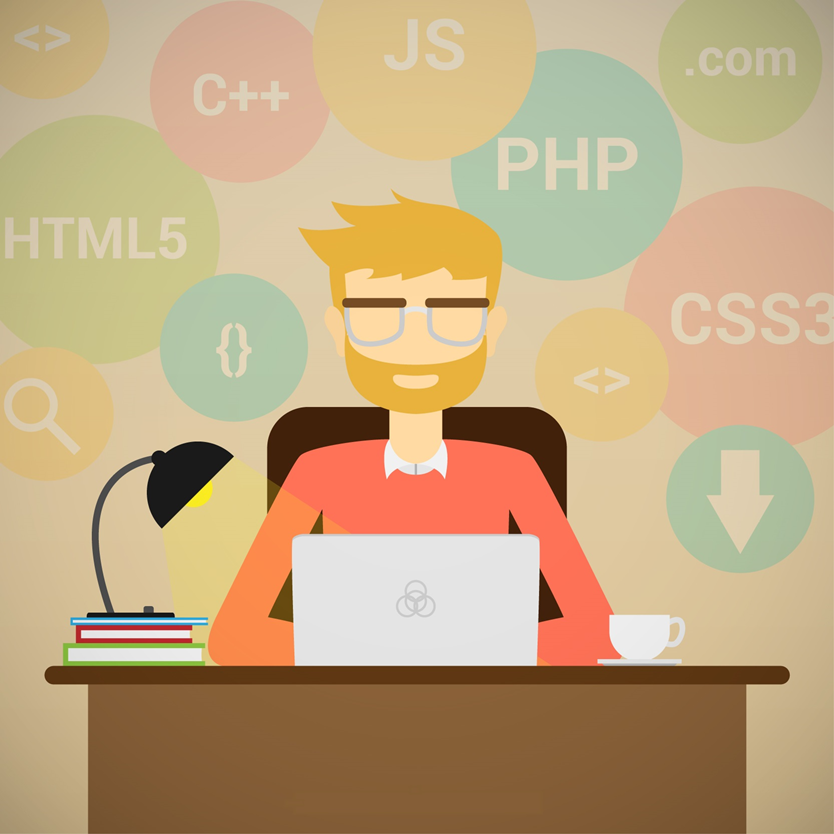
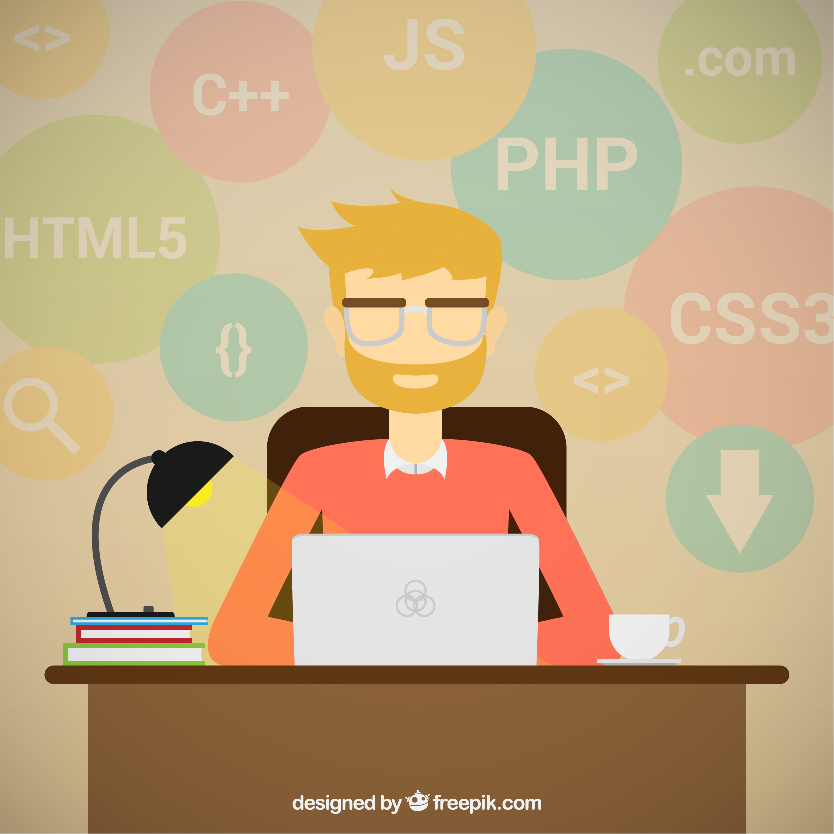
commit final

diff --git a/index.html b/index.html
@@ -50,7 +50,7 @@
       </h4>
       <div class="row">
         <div class="card-panel valign-wrapper  col m4 l12">
-          <p class="valign light">O <b>Projeto Matrix</b> traz uma abordagem imersiva e inovadora da qual, aliadas ao conceitos de mentoring e learn
+          <p class="valign light" align="justify">O <b>Projeto Matrix</b> traz uma abordagem imersiva e inovadora da qual, aliadas ao conceitos de mentoring e learn
             by doing, possibilitará a um grupo de estudantes de Tecnologia da Informação a vivenciarem diversas situações
             do cotidiano do setor de desenvolvimento de software. Os participantes serão, a todo momento, estimulados ao
             pensamento empreendedor e desafiados a buscarem soluções criativas e inovadoras para problemas reais. O projeto
@@ -68,11 +68,12 @@
         <div class="col s12 m4">
           <div class="card">
             <div class="card-image">
-              <img class="teste" src="img/empreendedor.jpg">
+              <img class="teste" src="img/empreendedor.png">
+              <!--<a href='http://br.freepik.com/vetores-gratis/homem-de-negocios-com-uma-lampada-na-cabeca_1076202.htm'>Designed by Freepik</a>-->
             </div>
             <div class="card-content">
               <p><b>Pensamento Empreendedor</b></p>
-              <p>A maioria das pessoas hesitam em dar o primeiro passo, com medo de fracassar. O que você precisa saber é que
+              <p align="justify">A maioria das pessoas hesitam em dar o primeiro passo, com medo de fracassar. O que você precisa saber é que
                 todo mundo tem medo de falhar, o sucesso só vem pra quem arrisca. Já dizia Albert Einstein: "uma pessoa que
                 nunca cometeu erros, nunca tentou algo novo."</p>
               <br>
@@ -84,10 +85,11 @@
           <div class="card">
             <div class="card-image">
               <img src="img/learnbydoing.png">
+              <!--<a href='http://br.freepik.com/vetores-gratis/programador-e-processo-de-codificacao_765893.htm'>Designed by Freepik</a>-->
             </div>
             <div class="card-content">
               <p><b>Learn By Doing</b></p>
-              <p>Vem evidenciar que grande parte de seu conhecimento e habilidades, você desenvolve sozinho. Como a própria
+              <p align="justify">Vem evidenciar que grande parte de seu conhecimento e habilidades, você desenvolve sozinho. Como a própria
                 tradução diz: Aprender fazendo. Podemos afirmar que é o processo pelo qual através do aprendizado construímos
                 nossos valores, conhecimentos e habilidades a partir de experiências.</p>
             </div>
@@ -97,11 +99,12 @@
         <div class="col s12 m4">
           <div class="card">
             <div class="card-image">
-              <img src="img/teach.png">
+              <img src="img/mentoring.png">
+              <!--<a href='http://br.freepik.com/vetores-gratis/professor-com-um-design-negro_1023438.htm'>Designed by Freepik</a>-->
             </div>
             <div class="card-content">
               <p><b>Mentoring</b></p>
-              <p>É uma espécie de tutoria onde um profissional mais experiente orienta e compartilha com profissionais mais
+              <p align="justify">É uma espécie de tutoria onde um profissional mais experiente orienta e compartilha com profissionais mais
                 jovens, que estão iniciando no mercado de trabalho, experiências e conhecimentos no sentido de dar-lhes orientações
                 e conselhos para o desenvolvimento de suas carreiras.</p>
               <br>
@@ -134,7 +137,7 @@
             <div class="card-reveal">
               <span id="revealNome" class="card-title grey-text text-darken-4">Jonatan Machado<i class="material-icons right">close</i></span>
               <div class="card-action">
-                <p>Natural do Rio de janeiro, 19 anos, Estuda na UniCarioca e cursa Ciência da Computação</p>
+                <p align="center">Desenvolvedor Web</p>
                 <div id="icones">
                   <a href="https://www.linkedin.com/in/jonatan2m/" target="_blank" class="csmb csmb-linkedin"></a>
                   <a href="https://github.com/jonatan2m" target="_blank" class="csmb csmb-github"></a>
@@ -155,7 +158,7 @@
             <div class="card-reveal">
               <span id="revealNome" class="card-title grey-text text-darken-4">Hugo Silva<i class="material-icons right">close</i></span>
               <div class="card-action">
-                <p>Natural do Rio de janeiro, 19 anos, Estuda na UniCarioca e cursa Ciência da Computação</p>
+                <p align="center">Desenvolvedor Mobile e Web</p>
                 <div id="icones">
                   <a href="https://www.linkedin.com/in/hugobex/" target="_blank" class="csmb csmb-linkedin"></a>
                   <a href="https://github.com/HugoBex" target="_blank" class="csmb csmb-github"></a>
@@ -176,10 +179,10 @@
             <div class="card-reveal">
               <span id="revealNome" class="card-title grey-text text-darken-4">Raphael Machado<i class="material-icons right">close</i></span>
               <div class="card-action">
-                <p>Natural do Rio de janeiro, 19 anos, Estuda na UniCarioca e cursa Ciência da Computação</p>
+                <p align="center">Monitor de computação</p>
                 <div id="icones">
                   <a href="https://www.linkedin.com/in/raphacm/" target="_blank" class="csmb csmb-linkedin"></a>
-                  <a href="http://github.com/<raphacm></raphacm>" target="_blank" class="csmb csmb-github"></a>
+                  <a href="https://github.com/raphacm" target="_blank" class="csmb csmb-github"></a>
                 </div>
               </div>
             </div>
@@ -211,7 +214,9 @@
             <div class="card-reveal">
               <span id="revealNomeA" class="card-title grey-text text-darken-4">Álvaro Nascimento<i class="material-icons right">close</i></span>
               <div class="card-action">
-                <p>Natural do Rio de janeiro, 19 anos, Estuda na UniCarioca e cursa Ciência da Computação</p>
+                  <p align="center">Data de Nascimento:<br>02/03/1987</p>
+                  <p align="center">Curso:<br>Ciência da Computação</p>
+                  <p align="center">Período:<br>3º</p>
                 <div id="icones">
                   <a href="https://www.linkedin.com/in/%C3%A1lvaro-nascimento-748190114/" target="_blank" class="csmb csmb-linkedin"></a>
                   <a href="https://github.com/alvaroinfo21/" target="_blank" class="csmb csmb-github"></a>
@@ -232,7 +237,9 @@
             <div class="card-reveal">
               <span id="revealNomeF" class="card-title grey-text text-darken-4">Felippe Nascimento<i class="material-icons right">close</i></span>
               <div class="card-action">
-                <p>Natural do Rio de janeiro, 19 anos, Estuda na UniCarioca e cursa Ciência da Computação</p>
+                <p align="center">Data de Nascimento:<br>20/07/1987</p>
+                <p align="center">Curso:<br>Análise e Desenvolvimento de Sistemas</p>
+                <p align="center">Período:<br>5º</p>
                 <div id="icones">
                   <a href="https://www.linkedin.com/in/nascimentof" target="_blank" class="csmb csmb-linkedin"></a>
                   <a href="https://github.com/f5-nascimento" target="_blank" class="csmb csmb-github"></a>
@@ -253,7 +260,9 @@
             <div class="card-reveal">
               <span id="revealNome" class="card-title grey-text text-darken-4">Flávio Santana<i class="material-icons right">close</i></span>
               <div class="card-action">
-                <p>Natural do Rio de janeiro, 19 anos, Estuda na UniCarioca e cursa Ciência da Computação</p>
+                <p align="center">Data de Nascimento:<br>07/11/1997</p>
+                <p align="center">Curso:<br>Ciência da Computação</p>
+                <p align="center">Período:<br>4º</p>
                 <div id="icones">
                   <a href="https://www.linkedin.com/in/flaviosantanac/" target="_blank" class="csmb csmb-linkedin"></a>
                   <a href="https://github.com/flaviosc" target="_blank" class="csmb csmb-github"></a>
@@ -279,7 +288,9 @@
             <div class="card-reveal">
               <span id="revealNome" class="card-title grey-text text-darken-4">Joice Paz<i class="material-icons right">close</i></span>
               <div class="card-action">
-                <p>Natural do Rio de janeiro, 19 anos, Estuda na UniCarioca e cursa Ciência da Computação</p>
+                <p align="center">Data de Nascimento:<br>01/12/1996</p>
+                <p align="center">Curso:<br>Ciência da Computação</p>
+                <p align="center">Período:<br>4º </p>
                 <div id="icones">
                   <a href="http:/www.linkedin.com/in/joicepaz" target="_blank" class="csmb csmb-linkedin"></a>
                   <a href="https://github.com/JoicePaz" target="_blank" class="csmb csmb-github"></a>
@@ -300,7 +311,9 @@
             <div class="card-reveal">
               <span id="revealNome" class="card-title grey-text text-darken-4">Karine Monteiro<i class="material-icons right">close</i></span>
               <div class="card-action">
-                <p>Natural do Rio de janeiro, 19 anos, Estuda na UniCarioca e cursa Ciência da Computação</p>
+                <p align="center">Data de Nascimento:<br>17/05/1997</p>
+                <p align="center">Curso:<br>Ciência da Computação</p>
+                <p align="center">Período:<br>4º</p>
                 <div id="icones">
                   <a href="https://www.linkedin.com/in/karine-de-almeida-monteiro-371ba3141/" target="_blank" class="csmb csmb-linkedin"></a>
                   <a href="https://github.com/KarineAMonteiro" target="_blank" class="csmb csmb-github"></a>
@@ -321,7 +334,9 @@
             <div class="card-reveal">
               <span id="revealNome" class="card-title grey-text text-darken-4">Leonardo Bruno<i class="material-icons right">close</i></span>
               <div class="card-action">
-                <p>Natural do Rio de janeiro, 19 anos, Estuda na UniCarioca e cursa Ciência da Computação</p>
+                <p align="center">Data de Nascimento:<br>27/03/1998</p>
+                <p align="center">Curso:<br>Ciência da Computação</p>
+                <p align="center">Período:<br>5º</p>
                 <div id="icones">
                   <a href="https://www.linkedin.com/in/leonardo-bruno-bba940142" target="_blank" class="csmb csmb-linkedin"></a>
                   <a href="https://github.com/leobrunoog" target="_blank" class="csmb csmb-github"></a>
@@ -345,7 +360,9 @@
               <div class="card-reveal">
                 <span id="revealNome" class="card-title grey-text text-darken-4">Luan Peixoto<i class="material-icons right">close</i></span>
                 <div class="card-action">
-                  <p>Natural do Rio de janeiro, 19 anos, Estuda na UniCarioca e cursa Ciência da Computação</p>
+                  <p align="center">Data de Nascimento:<br>30/08/1997</p>
+                  <p align="center">Curso:<br>Ciência da Computação</p>
+                  <p align="center">Período:<br>4º</p>
                   <div id="icones">
                     <a href="http:/www.linkedin.com/in/luanpp" target="_blank" class="csmb csmb-linkedin"></a>
                     <a href="https://github.com/LuanPeixotop" target="_blank" class="csmb csmb-github"></a>
@@ -366,7 +383,9 @@
               <div class="card-reveal">
                 <span id="revealNome" class="card-title grey-text text-darken-4">Matheus Duarte<i class="material-icons right">close</i></span>
                 <div class="card-action">
-                  <p>Natural do Rio de janeiro, 19 anos, Estuda na UniCarioca e cursa Ciência da Computação</p>
+                  <p align="center">Data de Nascimento:<br>08/08/1994</p>
+                  <p align="center">Curso:<br>Ciência da Computação</p>
+                  <p align="center">Período:<br>7º</p>
                   <div id="icones">
                     <a href="https://linkedin.com/in/mathewsduarte" target="_blank" class="csmb csmb-linkedin"></a>
                     <a href="https://github.com/MathewsDuarte" target="_blank" class="csmb csmb-github"></a>
@@ -387,7 +406,9 @@
               <div class="card-reveal">
                 <span id="revealNome" class="card-title grey-text text-darken-4">Paulo Victor<i class="material-icons right">close</i></span>
                 <div class="card-action">
-                  <p>Natural do Rio de janeiro, 19 anos, Estuda na UniCarioca e cursa Ciência da Computação</p>
+                  <p align="center">Idade:<br>12/07/1993</p>
+                  <p align="center">Curso:<br>Ciência da Computação</p>
+                  <p align="center">Período:<br>6º</p>
                   <div id="icones">
                     <a href="http:/www.linkedin.com/in/paulo-victor-rodrigues-220248107" target="_blank" class="csmb csmb-linkedin"></a>
                     <a href="https://github.com/Tovirs" target="_blank" class="csmb csmb-github"></a>
@@ -413,7 +434,9 @@
               <div class="card-reveal">
                 <span id="revealNome" class="card-title grey-text text-darken-4">Raphaella Lopes<i class="material-icons right">close</i></span>
                 <div class="card-action">
-                  <p>Natural do Rio de janeiro, 19 anos, Estuda na UniCarioca e cursa Ciência da Computação</p>
+                <p align="center">Data de Nascimento:<br>22/01/1996</p>
+                <p align="center">Curso:<br>Análise e Desenvolvimento de Sistemas</p>
+                <p align="center">Período:<br>4º</p>
                   <div id="icones">
                     <a href="http:/www.linkedin.com/in/raphaella-lopes-1b0b0796" target="_blank" class="csmb csmb-linkedin"></a>
                     <a href="https://github.com/RaphaellaL" target="_blank" class="csmb csmb-github"></a>
@@ -434,7 +457,9 @@
               <div class="card-reveal">
                 <span id="revealNome" class="card-title grey-text text-darken-4">Raul Silva<i class="material-icons right">close</i></span>
                 <div class="card-action">
-                  <p>Natural do Rio de janeiro, 19 anos, Estuda na UniCarioca e cursa Ciência da Computação</p>
+                <p align="center">Data de Nascimento:<br>23/03/1998<br>
+                <p align="center">Curso:<br>Ciência da Computação</p>
+                <p align="center">Período:<br>4º</p>
                   <div id="icones">
                     <a href="http:/www.linkedin.com/in/rauldionisio" target="_blank" class="csmb csmb-linkedin"></a>
                     <a href="https://github.com/RaulDionisiodev" target="_blank" class="csmb csmb-github"></a>
@@ -455,7 +480,9 @@
               <div class="card-reveal">
                 <span id="revealNome" class="card-title grey-text text-darken-4">Yasuto Tanaka<i class="material-icons right">close</i></span>
                 <div class="card-action">
-                  <p>Natural do Rio de janeiro, 19 anos, Estuda na UniCarioca e cursa Ciência da Computação</p>
+                  <p align="center">Data de Nascimento:<br>09/06/1986<br>
+                  <p align="center">Curso:<br>Engenharia da Computação<br>
+                  <p align="center">Período:<br>5º<nr>
                   <div id="icones">
                     <a href="https://www.linkedin.com/in/yasutotanaka/" target="_blank" class="csmb csmb-linkedin"></a>
                     <a href="https://github.com/yasutot" target="_blank" class="csmb csmb-github"></a>
